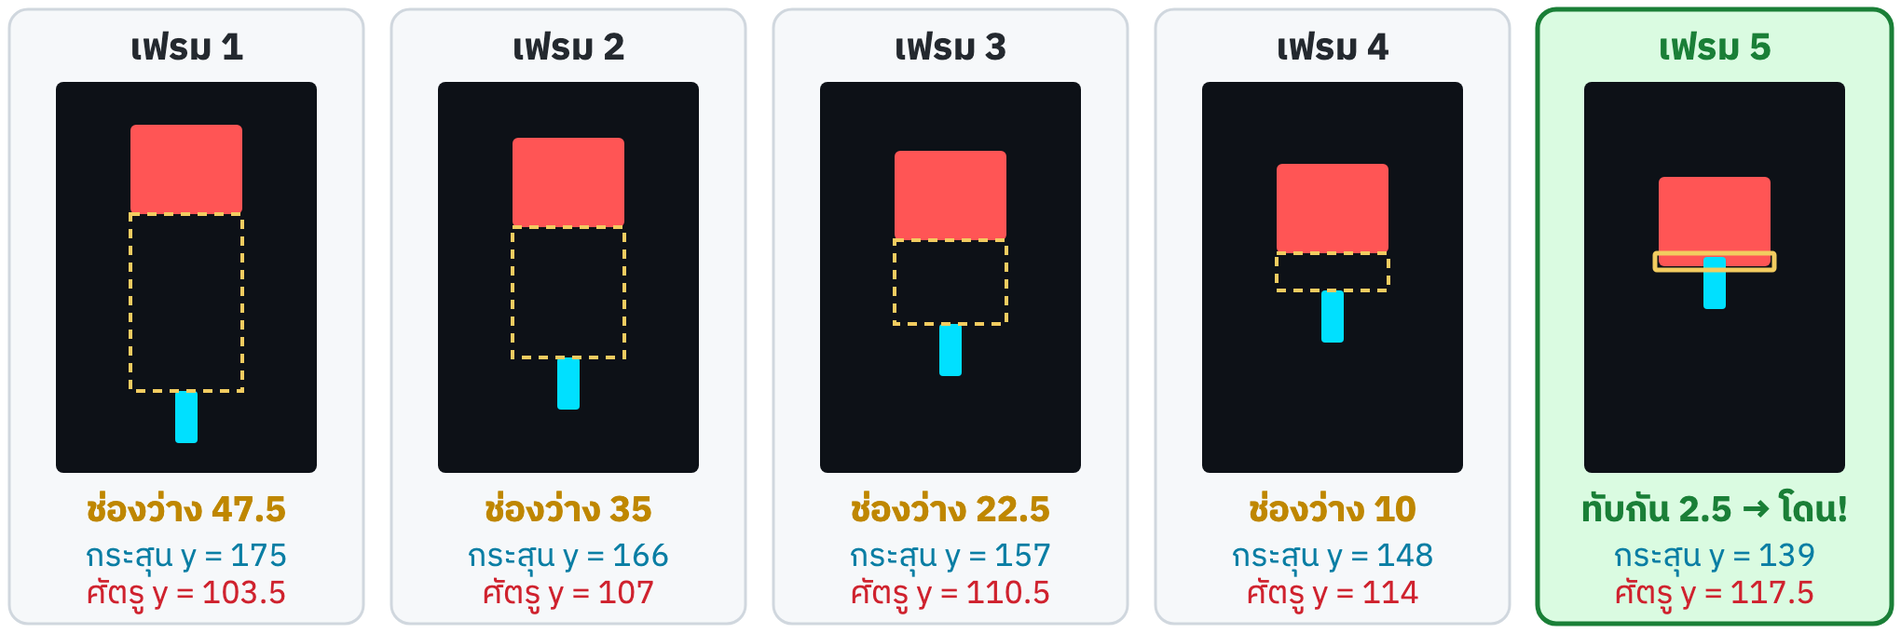
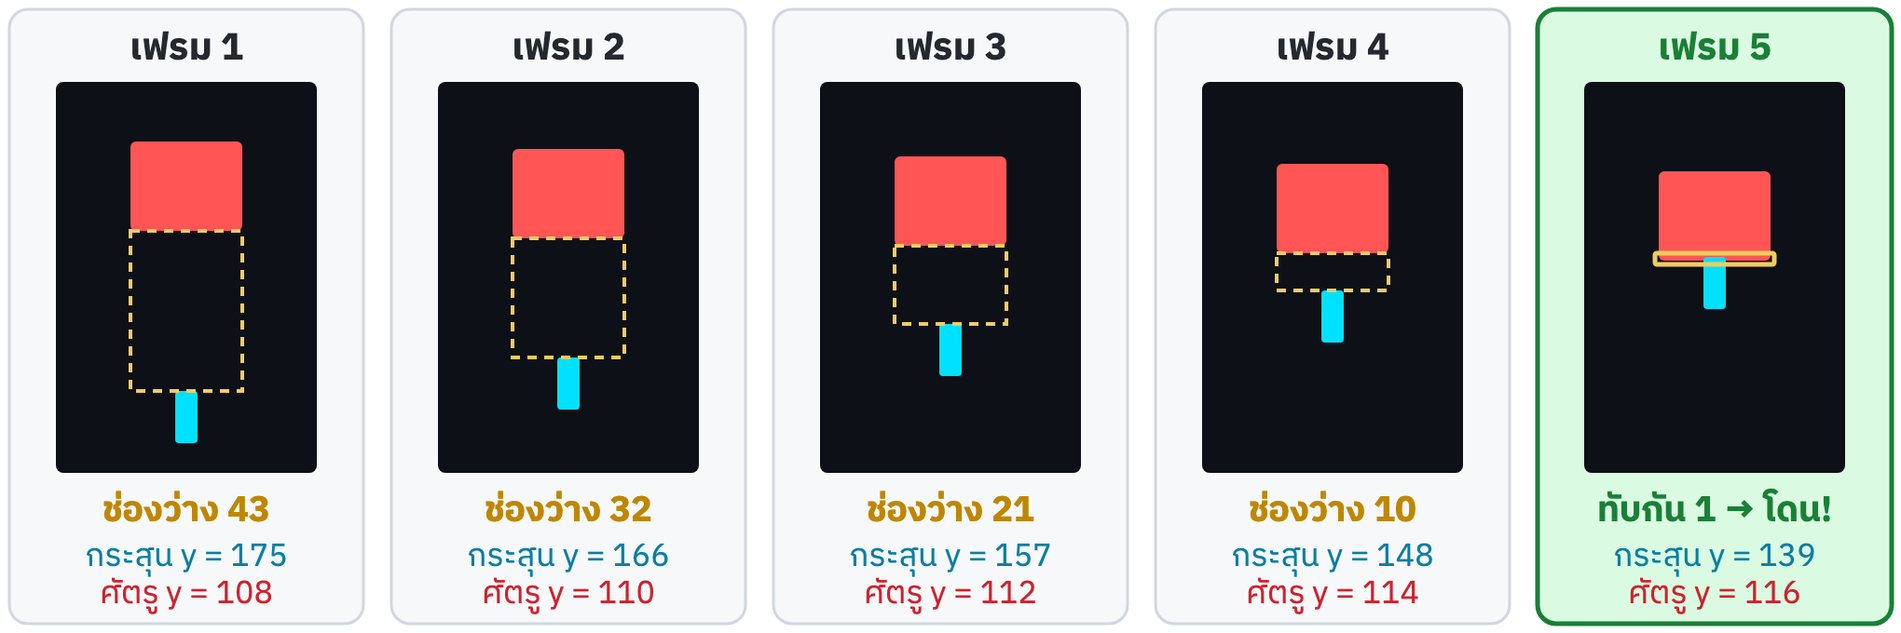
site: publish slides + practise_codes (2026-09-30)

diff --git a/developer-i/session-12.html b/developer-i/session-12.html
@@ -96,24 +96,24 @@
 </tbody>
 </table>
 <blockquote>
-<p>Catch ย้ายของไปที่ y = 0 (ขอบบนจอ) · step4 ย้ายไปเหนือจอ y −200 … −20 แล้วค่อย ๆ โผล่ลงมา · แบบ &quot;คืนแล้วรอให้ยืม&quot; ของศัตรูอยู่ใน step5 ท้ายคาบ</p>
+<p>Catch ย้ายของไปที่ y = 0 (ขอบบนจอ) · step4 ย้ายไปเหนือจอ y −500 … −100 แล้วค่อย ๆ โผล่ลงมา · แบบ &quot;คืนแล้วรอให้ยืม&quot; ของศัตรูอยู่ใน step5 ท้ายคาบ</p>
 </blockquote>
 </section>
 </foreignObject></svg><svg data-marpit-svg="" viewBox="0 0 1280 720"><foreignObject width="1280" height="720"><section id="5" data-paginate="true" data-theme="default" lang="en-US" data-marpit-pagination="5" style="--paginate:true;--theme:default;" data-marpit-pagination-total="36">
 <h1 id="%E0%B8%97%E0%B8%B2%E0%B8%A2%E0%B8%81%E0%B9%88%E0%B8%AD%E0%B8%99--%E0%B8%96%E0%B9%89%E0%B8%B2%E0%B8%A8%E0%B8%B1%E0%B8%95%E0%B8%A3%E0%B8%B9%E0%B9%84%E0%B8%A1%E0%B9%88%E0%B8%AA%E0%B8%B8%E0%B9%88%E0%B8%A1%E0%B9%80%E0%B8%A5%E0%B8%A2-%E0%B8%88%E0%B8%B0%E0%B9%80%E0%B8%81%E0%B8%B4%E0%B8%94%E0%B8%AD%E0%B8%B0%E0%B9%84%E0%B8%A3%E0%B8%82%E0%B8%B6%E0%B9%89%E0%B8%99">ทายก่อน — ถ้าศัตรูไม่สุ่มเลย จะเกิดอะไรขึ้น?</h1>
 <p><img src="img/s12_spawn_row.png" alt="" style="width:760px;" /></p>
 <ul>
-<li>สมมติทุกตัวเริ่มที่ <code>y = -50</code> และตกเฟรมละ 3 px เท่ากันหมด</li>
+<li>สมมติทุกตัวเริ่มที่ <code>y = -60</code> และตกเฟรมละ 2 px เท่ากันหมด</li>
 <li><strong>ทาย:</strong> ถึงพื้นเฟรมที่เท่าไร? แล้วชีวิต 3 ดวงจะเป็นอย่างไร? (จดคำตอบไว้ก่อน)</li>
 </ul>
 <blockquote>
-<p>ใบ้: ต้องเดินจาก −50 ไปให้เลย 398 (พื้น) ทีละ 3 px</p>
+<p>ใบ้: ต้องเดินจาก −60 ไปให้เลย 398 (พื้น) ทีละ 2 px</p>
 </blockquote>
 </section>
 </foreignObject></svg><svg data-marpit-svg="" viewBox="0 0 1280 720"><foreignObject width="1280" height="720"><section id="6" data-paginate="true" data-theme="default" lang="en-US" data-marpit-pagination="6" style="--paginate:true;--theme:default;" data-marpit-pagination-total="36">
 <h1 id="%E0%B9%80%E0%B8%89%E0%B8%A5%E0%B8%A2--%E0%B8%96%E0%B8%B6%E0%B8%87%E0%B8%9E%E0%B8%B7%E0%B9%89%E0%B8%99%E0%B8%9E%E0%B8%A3%E0%B9%89%E0%B8%AD%E0%B8%A1%E0%B8%81%E0%B8%B1%E0%B8%99-%E0%B9%80%E0%B8%AA%E0%B8%B5%E0%B8%A2-3-%E0%B8%8A%E0%B8%B5%E0%B8%A7%E0%B8%B4%E0%B8%95%E0%B9%83%E0%B8%99%E0%B9%80%E0%B8%9F%E0%B8%A3%E0%B8%A1%E0%B9%80%E0%B8%94%E0%B8%B5%E0%B8%A2%E0%B8%A7">เฉลย — ถึงพื้นพร้อมกัน เสีย 3 ชีวิตในเฟรมเดียว</h1>
 <ul>
-<li>ระยะทาง 398 − (−50) = 448 px · เฟรมละ 3 → 448 ÷ 3 = 149.3 → <strong>ทุกตัวถึงพื้นเฟรมที่ 150 พร้อมกัน</strong></li>
+<li>ระยะทาง 398 − (−60) = 458 px · เฟรมละ 2 → 458 ÷ 2 = 229 (เฟรม 229 อยู่ที่ 398 พอดี ยังไม่เลย) → <strong>ทุกตัวหลุดพื้นเฟรมที่ 230 พร้อมกัน</strong></li>
 <li>เฟรมนั้นลูปเจอตัวที่ 1 → lives 2 · ตัวที่ 2 → lives 1 · ตัวที่ 3 → lives 0 → <strong>GAME OVER ทันที</strong></li>
 </ul>
 <p>step4 จึงสุ่ม 2 อย่าง: <strong>ความสูงเริ่ม</strong> และ <strong>ความเร็ว</strong> (ภาพวาดตามสเกลจริงแกน y)</p>
@@ -135,28 +135,28 @@
 <tbody>
 <tr>
 <td>A</td>
-<td>−40</td>
-<td>4.5</td>
-<td>98</td>
-<td>3.3</td>
+<td>−60</td>
+<td>2.5</td>
+<td>184</td>
+<td>6.1</td>
 </tr>
 <tr>
 <td>B</td>
-<td>−200</td>
-<td>3.5</td>
-<td>171</td>
-<td>5.7</td>
+<td>−300</td>
+<td>2.0</td>
+<td>350</td>
+<td>11.7</td>
 </tr>
 <tr>
 <td>C</td>
-<td>−400</td>
-<td>2.5</td>
-<td>320</td>
-<td>10.7</td>
+<td>−700</td>
+<td>1.5</td>
+<td>733</td>
+<td>24.4</td>
 </tr>
 </tbody>
 </table>
-<p><strong>คำพูด:</strong> ตำแหน่งใหม่ = ตำแหน่งเดิม + ความเร็ว ทุกเฟรม (เหมือน Catch) → เฟรมจนถึงพื้น ≈ (398 − y เริ่ม) ÷ v · ตัว B: 598 ÷ 3.5 = 170.9 → <strong>171</strong></p>
+<p><strong>คำพูด:</strong> ตำแหน่งใหม่ = ตำแหน่งเดิม + ความเร็ว ทุกเฟรม (เหมือน Catch) → เฟรมจนถึงพื้น ≈ (398 − y เริ่ม) ÷ v · ตัว B: 698 ÷ 2 = 349 → เฟรม 349 อยู่ที่ 398 พอดี ยังไม่เลย → <strong>350</strong></p>
 <p><span style="font-size:.8em">*ถ้าบอร์ดวิ่ง 30 เฟรม/วินาที</span></p>
 </div>
 </div>
@@ -197,7 +197,7 @@
 </foreignObject></svg><svg data-marpit-svg="" viewBox="0 0 1280 720"><foreignObject width="1280" height="720"><section id="8" data-paginate="true" data-theme="default" lang="en-US" data-marpit-pagination="8" style="--paginate:true;--theme:default;" data-marpit-pagination-total="36">
 <h1 id="%E0%B8%95%E0%B8%B2%E0%B8%A1%E0%B8%95%E0%B8%B1%E0%B8%A7%E0%B9%80%E0%B8%A5%E0%B8%82%E0%B8%88%E0%B8%A3%E0%B8%B4%E0%B8%87%E0%B8%97%E0%B8%B5%E0%B8%A5%E0%B8%B0%E0%B9%80%E0%B8%9F%E0%B8%A3%E0%B8%A1--%E0%B8%8A%E0%B9%88%E0%B8%AD%E0%B8%87%E0%B8%A7%E0%B9%88%E0%B8%B2%E0%B8%87%E0%B8%AB%E0%B8%94%E0%B8%88%E0%B8%99%E0%B8%AB%E0%B8%B2%E0%B8%A2">ตามตัวเลขจริงทีละเฟรม — ช่องว่างหดจนหาย</h1>
 <p><img src="img/s12_aabb_trace.png" alt="" style="width:760px;" /></p>
-<p>กระสุนขึ้นเฟรมละ <strong>9</strong> ศัตรูลงเฟรมละ <strong>3.5</strong> → ช่องว่างหดเฟรมละ 9 + 3.5 = <strong>12.5 px</strong>: 47.5 → 35 → 22.5 → 10 → ทับกัน</p>
+<p>กระสุนขึ้นเฟรมละ <strong>9</strong> ศัตรูลงเฟรมละ <strong>2</strong> → ช่องว่างหดเฟรมละ 9 + 2 = <strong>11 px</strong>: 43 → 32 → 21 → 10 → ทับกัน</p>
 <table>
 <thead>
 <tr>
@@ -223,13 +223,13 @@
 <tr>
 <td>3</td>
 <td>ขอบบนกระสุน อยู่เหนือขอบล่างศัตรู?</td>
-<td>139 &lt; 117.5 + 24 = 141.5</td>
+<td>139 &lt; 116 + 24 = 140</td>
 <td>✓</td>
 </tr>
 <tr>
 <td>4</td>
 <td>ขอบล่างกระสุน เลยขอบบนศัตรู?</td>
-<td>139 + 14 = 153 &gt; 117.5</td>
+<td>139 + 14 = 153 &gt; 116</td>
 <td>✓</td>
 </tr>
 </tbody>
@@ -276,7 +276,7 @@ c100.7 8.3 195.3 44 280 108 55.3 42 101.7 93 139 153l9 14c2.7-4 5.7-8.7 9-14
 <p><span style="font-size:.85em;color:#57606a">ตัวอย่างทั่วไป (ไม่ใช่โค้ดแล็บ) ลองพิมพ์ทีละบรรทัดใน REPL ได้</span></p>
 <pre is="marp-pre" data-auto-scaling="downscale-only"><code class="language-python"><span class="hljs-keyword">import</span> random
 random.choice([<span class="hljs-string">&quot;RED&quot;</span>, <span class="hljs-string">&quot;ORANGE&quot;</span>, <span class="hljs-string">&quot;PINK&quot;</span>])   <span class="hljs-comment"># สุ่มหยิบ 1 ชิ้นจาก list เช่น &quot;PINK&quot;</span>
-random.uniform(<span class="hljs-number">2.5</span>, <span class="hljs-number">4.5</span>)                    <span class="hljs-comment"># สุ่มเลขทศนิยมในช่วง เช่น 3.48</span>
+random.uniform(<span class="hljs-number">1.5</span>, <span class="hljs-number">2.5</span>)                    <span class="hljs-comment"># สุ่มเลขทศนิยมในช่วง เช่น 1.98</span>
 <span class="hljs-keyword">for</span> index, color <span class="hljs-keyword">in</span> <span class="hljs-built_in">enumerate</span>([<span class="hljs-string">&quot;RED&quot;</span>, <span class="hljs-string">&quot;ORANGE&quot;</span>]):
     <span class="hljs-built_in">print</span>(index, color)                     <span class="hljs-comment"># ได้ 0 RED แล้ว 1 ORANGE</span>
 <span class="hljs-keyword">for</span> n <span class="hljs-keyword">in</span> [<span class="hljs-number">1</span>, <span class="hljs-number">2</span>, <span class="hljs-number">3</span>, <span class="hljs-number">4</span>]:
@@ -296,7 +296,7 @@ random.uniform(<span class="hljs-number">2.5</span>, <span class="hljs-number">4
 <tbody>
 <tr>
 <td><code>random.choice(list)</code> · <code>random.uniform(a, b)</code></td>
-<td>สีสุ่ม <code>random.choice(ENEMY_COLORS)</code> · ความเร็วสุ่ม 2.5 … 4.5</td>
+<td>สีสุ่ม <code>random.choice(ENEMY_COLORS)</code> · ความเร็วสุ่ม 1.5 … 2.5</td>
 </tr>
 <tr>
 <td><code>enumerate(list)</code></td>
@@ -380,20 +380,20 @@ random.uniform(<span class="hljs-number">2.5</span>, <span class="hljs-number">4
 </tbody>
 </table>
 <blockquote>
-<p><code>on_frame</code> แก้ค่า <code>score</code> กับ <code>lives</code> จึงต้องมี <code>global ship_x, ship_speed, score, lives, fire_cooldown</code> — ให้มาแล้วที่ <code>:52</code> อย่าลบ</p>
+<p><code>on_frame</code> แก้ <code>score</code> กับ <code>lives</code> จึงต้องมีบรรทัด <code>global</code> — ให้มาแล้วที่ <code>:52</code> อย่าลบ</p>
 </blockquote>
 </section>
 </foreignObject></svg><svg data-marpit-svg="" viewBox="0 0 1280 720"><foreignObject width="1280" height="720"><section id="13" data-paginate="true" data-theme="default" lang="en-US" data-marpit-pagination="13" style="--paginate:true;--theme:default;" data-marpit-pagination-total="36">
 <h1 id="game-over--return-false-%E0%B8%9A%E0%B8%AD%E0%B8%81-gamerun-%E0%B9%83%E0%B8%AB%E0%B9%89%E0%B8%AB%E0%B8%A2%E0%B8%B8%E0%B8%94">GAME OVER — <code>return False</code> บอก <code>game.run()</code> ให้หยุด</h1>
-<p><img src="img/s12_states.png" alt="" style="width:700px;" /></p>
+<p><img src="img/s12_states.png" alt="" style="width:600px;" /></p>
 <pre is="marp-pre" data-auto-scaling="downscale-only"><code class="language-python">            <span class="hljs-keyword">if</span> lives &lt;= <span class="hljs-number">0</span>:                   <span class="hljs-comment"># ค ชีวิตหมด = จบเกม</span>
-                game.sfx(<span class="hljs-string">&quot;gameover&quot;</span>)
+                game.sfx(<span class="hljs-string">&quot;gameover&quot;</span>)         <span class="hljs-comment"># เสียงจบ (ยิง = &quot;fire&quot;, โดน = &quot;hit&quot;)</span>
                 game.Text(<span class="hljs-string">&quot;GAME OVER&quot;</span>, <span class="hljs-number">320</span>, <span class="hljs-number">180</span>, game.RED)
                 <span class="hljs-keyword">return</span> <span class="hljs-literal">False</span>
 </code></pre>
 <ul>
 <li>ภาพซ้าย = FSM ไฟจราจรคาบ 2 (วงกลม = สถานะ ลูกศร = เหตุที่ทำให้เปลี่ยน) · ภาพขวา = เกมเราก็เป็น FSM: กำลังเล่น กับ พัก สลับกันด้วยปุ่ม Start · ชีวิตหมด → GAME OVER</li>
-<li>เหมือนตอนจบ Catch (<code>s04_catch.py:59-63</code>) แต่จบเพราะ <strong>ชีวิตหมด</strong> · engine เห็น <code>False</code> แล้วเลิกเรียก <code>on_frame</code> (<code>bentogame.py:996-997</code>) · สร้าง <code>game.Text</code> ตรงนี้ได้เพราะเกิด <strong>ครั้งเดียว</strong> · เสียง: <code>&quot;fire&quot;</code> ยิง · <code>&quot;hit&quot;</code> โดน · <code>&quot;gameover&quot;</code> จบ</li>
+<li>เหมือนจบ Catch (<code>s04_catch.py:59-63</code>) แต่จบเพราะ <strong>ชีวิตหมด</strong> · engine เห็น <code>False</code> แล้วเลิกเรียก <code>on_frame</code> (<code>bentogame.py:996-997</code>) · สร้าง <code>game.Text</code> ได้เพราะเกิด <strong>ครั้งเดียว</strong></li>
 </ul>
 </section>
 </foreignObject></svg><svg data-marpit-svg="" viewBox="0 0 1280 720"><foreignObject width="1280" height="720"><section id="14" data-paginate="true" data-theme="default" lang="en-US" data-marpit-pagination="14" style="--paginate:true;--theme:default;" data-marpit-pagination-total="36">
@@ -440,18 +440,18 @@ random.uniform(<span class="hljs-number">2.5</span>, <span class="hljs-number">4
 <td>x — ศัตรูกว้าง 30 จึงไม่ล้นขอบขวา 792</td>
 </tr>
 <tr>
-<td><code>-random.randint(40, 400)</code></td>
-<td>−400 … −40</td>
-<td>y ตอนสร้าง — เหนือจอ สูงต่ำไม่เท่ากัน</td>
+<td><code>-random.randint(60, 700)</code></td>
+<td>−700 … −60</td>
+<td>y ตอนสร้าง — เหนือจอ สูงต่ำต่างกันมาก ทยอยลงมา</td>
 </tr>
 <tr>
-<td><code>-random.randint(20, 200)</code></td>
-<td>−200 … −20</td>
-<td>y ตอนวนกลับ — ใกล้จอกว่า โผล่ไวกว่า</td>
+<td><code>-random.randint(100, 500)</code></td>
+<td>−500 … −100</td>
+<td>y ตอนวนกลับ — หายไปเหนือจอสักพักก่อนโผล่อีกรอบ</td>
 </tr>
 <tr>
-<td><code>random.uniform(2.5, 4.5)</code></td>
-<td>2.5 … 4.5 (ทศนิยม)</td>
+<td><code>random.uniform(1.5, 2.5)</code></td>
+<td>1.5 … 2.5 (ทศนิยม)</td>
 <td>ความเร็วตก px/เฟรม เก็บใน <code>enemy_speed</code></td>
 </tr>
 <tr>
@@ -461,6 +461,9 @@ random.uniform(<span class="hljs-number">2.5</span>, <span class="hljs-number">4
 </tr>
 </tbody>
 </table>
+<blockquote>
+<p>ค่าชุดนี้ตั้งให้ช้าพอที่มือใหม่เล่นได้รอบละราว 30–100 วินาที · อยากให้ยากขึ้นลองเพิ่มความเร็วเอง · ความยากแบบมีโหมดอยู่ใน step5</p>
+</blockquote>
 </section>
 </foreignObject></svg><svg data-marpit-svg="" viewBox="0 0 1280 720"><foreignObject width="1280" height="720"><section id="15" data-paginate="true" data-theme="default" lang="en-US" data-marpit-pagination="15" style="--paginate:true;--theme:default;" data-marpit-pagination-total="36">
 <h1 id="%E0%B8%8A%E0%B9%88%E0%B8%AD%E0%B8%87-34-%E0%B8%95%E0%B8%B2%E0%B8%A1%E0%B8%9C%E0%B8%B1%E0%B8%87--%E0%B8%82%E0%B8%B1%E0%B9%89%E0%B8%99-%E0%B8%81-%E0%B8%96%E0%B8%B6%E0%B8%87-%E0%B8%88">ช่อง (3+4) ตามผัง — ขั้น ก ถึง จ</h1>
@@ -475,7 +478,7 @@ random.uniform(<span class="hljs-number">2.5</span>, <span class="hljs-number">4
 <div style="display:flex;gap:22px;align-items:flex-start">
 <div style="flex:0 0 440px">
 <p><img src="img/s12_round.gif" alt="" style="width:440px;" /></p>
-<p><span style="font-size:.7em;color:#57606a">คลิปจำลองตรรกะ <code>shooter_step4.py</code> หนึ่งรอบ (ไม่ใช่ภาพจากบอร์ด) · ผู้เล่นอัตโนมัติเลี้ยวยานไปใต้ศัตรูตัวที่ต่ำที่สุด และกด A ค้าง</span></p>
+<p><span style="font-size:.7em;color:#57606a">คลิปจำลองตรรกะ <code>shooter_step4.py</code> (ไม่ใช่ภาพจากบอร์ด) · ผู้เล่นอัตโนมัติเลี้ยวยานไปใต้ศัตรูตัวที่ต่ำที่สุด และกด A ค้าง · เลือกรอบที่จบเร็ว (~21 วินาที) มาให้เห็นครบ ปกติยาวกว่านี้มาก</span></p>
 </div>
 <div style="flex:1">
 <div style="line-height:1.9">
@@ -522,7 +525,7 @@ random.uniform(<span class="hljs-number">2.5</span>, <span class="hljs-number">4
 </tr>
 <tr>
 <td>ลืม <code>break</code></td>
-<td>แทบไม่เห็นบนจอ (นาน ๆ ครั้งตัวเดียวได้ 2 แต้ม) แต่ผิดหลัก</td>
+<td>บนจอแทบไม่มีทางเห็น แต่ผิดหลัก: ศัตรูที่วนขึ้นบนแล้วยังถูกเช็คต่อ</td>
 <td>ใส่ไว้เสมอ = &quot;ตัวนี้จบแล้ว&quot;</td>
 </tr>
 <tr>
@@ -533,7 +536,7 @@ random.uniform(<span class="hljs-number">2.5</span>, <span class="hljs-number">4
 </tbody>
 </table>
 <blockquote>
-<p>ได้คะแนนตอนศัตรูเพิ่งโผล่ขอบบน (ยังเห็นไม่เต็มตัว) เป็นเรื่องปกติ: นัดที่ยังใช้อยู่แถว y −20 … 0 โดนมันได้ · แถว &quot;ลืม break&quot; จากการจำลองตรรกะบนคอมพิวเตอร์: 2 ใน 300 รอบ</p>
+<p>ได้คะแนนตอนศัตรูเพิ่งโผล่ขอบบน (ยังเห็นไม่เต็มตัว) เป็นเรื่องปกติ: นัดที่ยังใช้อยู่แถว y −20 … 0 โดนมันได้ · แถว &quot;ลืม break&quot;: จำลองตรรกะบนคอมพิวเตอร์ 100 รอบ ไม่เห็นแต้มซ้ำเลย</p>
 </blockquote>
 </section>
 </foreignObject></svg><svg data-marpit-svg="" viewBox="0 0 1280 720"><foreignObject width="1280" height="720"><section id="18" data-paginate="true" data-theme="default" lang="en-US" data-marpit-pagination="18" style="--paginate:true;--theme:default;" data-marpit-pagination-total="36">
@@ -707,19 +710,19 @@ random.uniform(<span class="hljs-number">2.5</span>, <span class="hljs-number">4
 </section>
 </foreignObject></svg><svg data-marpit-svg="" viewBox="0 0 1280 720"><foreignObject width="1280" height="720"><section id="24" data-paginate="true" data-theme="default" lang="en-US" data-marpit-pagination="24" style="--paginate:true;--theme:default;" data-marpit-pagination-total="36">
 <h1 id="%E0%B9%80%E0%B8%89%E0%B8%A5%E0%B8%A2-step4--%E0%B8%8A%E0%B9%88%E0%B8%AD%E0%B8%87-1--2">เฉลย step4 · ช่อง (1) + (2)</h1>
-<pre is="marp-pre" data-auto-scaling="downscale-only"><code class="language-python">enemies = [game.Box(random.randint(<span class="hljs-number">0</span>, game.WIDTH - <span class="hljs-number">30</span>), -random.randint(<span class="hljs-number">40</span>, <span class="hljs-number">400</span>),
+<pre is="marp-pre" data-auto-scaling="downscale-only"><code class="language-python">enemies = [game.Box(random.randint(<span class="hljs-number">0</span>, game.WIDTH - <span class="hljs-number">30</span>), -random.randint(<span class="hljs-number">60</span>, <span class="hljs-number">700</span>),
                     <span class="hljs-number">30</span>, <span class="hljs-number">24</span>, random.choice(ENEMY_COLORS)) <span class="hljs-keyword">for</span> _ <span class="hljs-keyword">in</span> <span class="hljs-built_in">range</span>(MAX_ENEMIES)]
-enemy_speed = [random.uniform(<span class="hljs-number">2.5</span>, <span class="hljs-number">4.5</span>) <span class="hljs-keyword">for</span> _ <span class="hljs-keyword">in</span> <span class="hljs-built_in">range</span>(MAX_ENEMIES)]
+enemy_speed = [random.uniform(<span class="hljs-number">1.5</span>, <span class="hljs-number">2.5</span>) <span class="hljs-keyword">for</span> _ <span class="hljs-keyword">in</span> <span class="hljs-built_in">range</span>(MAX_ENEMIES)]   <span class="hljs-comment"># ช้าพอให้ยิงทัน</span>
 
 <span class="hljs-keyword">def</span> <span class="hljs-title function_">respawn_enemy</span>(<span class="hljs-params">index</span>):
-    enemies[index].move_to(random.randint(<span class="hljs-number">0</span>, game.WIDTH - <span class="hljs-number">30</span>), -random.randint(<span class="hljs-number">20</span>, <span class="hljs-number">200</span>))
+    enemies[index].move_to(random.randint(<span class="hljs-number">0</span>, game.WIDTH - <span class="hljs-number">30</span>), -random.randint(<span class="hljs-number">100</span>, <span class="hljs-number">500</span>))
     enemies[index].set_color(random.choice(ENEMY_COLORS))
 </code></pre>
 <p><code>solution_codes/shooter_step4.py:30-32</code> และ <code>:41-43</code></p>
 <ul>
 <li>list comprehension สร้าง 6 กล่องในบรรทัดเดียว — ทำ <strong>ครั้งเดียว</strong> นอก <code>on_frame</code></li>
 <li><code>enemies[i]</code> กับ <code>enemy_speed[i]</code> คือ list คู่ขนาน: ตำแหน่ง i ของทั้งสอง list คือศัตรูตัวเดียวกัน</li>
-<li>วนกลับขึ้นบนใช้ y −200 … −20 (ใกล้จอกว่าตอนเริ่ม −400 … −40) ศัตรูที่วนกลับมาจึงโผล่ไวกว่ารอบแรก</li>
+<li>ตอนเริ่มใช้ y −700 … −60 (กระจายกว้าง 6 ตัวจึงทยอยลงมา) · ตอนวนกลับใช้ −500 … −100: ตัวที่เพิ่งจบรอบหายไปเหนือจอสักพัก — ที่ 2 px/เฟรม ใช้ 50–250 เฟรม (≈ 2–8 วินาที) กว่าจะถึงขอบบน ผู้เล่นได้พักหายใจ</li>
 <li>ความเร็วไม่ได้สุ่มใหม่ตอนวนกลับ — แต่ละตัวเร็วเท่าเดิมทั้งเกม (<code>respawn_enemy</code> ไม่แตะ <code>enemy_speed</code>)</li>
 </ul>
 </section>
@@ -838,9 +841,9 @@ enemy_speed = [random.uniform(<span class="hljs-number">2.5</span>, <span class=
 </foreignObject></svg><svg data-marpit-svg="" viewBox="0 0 1280 720"><foreignObject width="1280" height="720"><section id="30" data-paginate="true" data-theme="default" lang="en-US" data-marpit-pagination="30" style="--paginate:true;--theme:default;" data-marpit-pagination-total="36">
 <h1 id="%E0%B8%A5%E0%B8%B6%E0%B8%81%E0%B8%AD%E0%B8%B5%E0%B8%81%E0%B8%99%E0%B8%B4%E0%B8%94--%E0%B8%97%E0%B8%B3%E0%B9%84%E0%B8%A1%E0%B8%81%E0%B8%A3%E0%B8%B0%E0%B8%AA%E0%B8%B8%E0%B8%99%E0%B9%84%E0%B8%A1%E0%B9%88-%E0%B8%97%E0%B8%B0%E0%B8%A5%E0%B8%B8-%E0%B8%A8%E0%B8%B1%E0%B8%95%E0%B8%A3%E0%B8%B9">ลึกอีกนิด · ทำไมกระสุนไม่ &quot;ทะลุ&quot; ศัตรู</h1>
 <ul>
-<li>ต่อเฟรม กระสุนกับศัตรูเข้าหากันได้มากสุด 9 + 4.5 = <strong>13.5 px</strong> (ศัตรูเร็วสุด 4.5)</li>
+<li>ต่อเฟรม กระสุนกับศัตรูเข้าหากันได้มากสุด 9 + 2.5 = <strong>11.5 px</strong> (ศัตรูเร็วสุด 2.5)</li>
 <li>ช่วงที่แกน y ทับกันยาว = สูงศัตรู + สูงกระสุน = 24 + 14 = <strong>38 px</strong></li>
-<li>ก้าวละ 13.5 กระโดดข้ามช่วง 38 ไม่พ้น → ต้องมีอย่างน้อย 1 เฟรมที่ทับกัน <code>game.hit</code> เห็นแน่ (ถ้าแกน x ตรงกัน)</li>
+<li>ก้าวละ 11.5 กระโดดข้ามช่วง 38 ไม่พ้น → ต้องมีอย่างน้อย 1 เฟรมที่ทับกัน <code>game.hit</code> เห็นแน่ (ถ้าแกน x ตรงกัน)</li>
 <li>ถ้าวันหนึ่งทำกระสุนเร็ว 40 px/เฟรม จะเริ่มทะลุได้ — เกมจริงแก้ด้วยการเช็คทีละก้าวย่อย หรือยืดกล่องชนตามทางที่วิ่ง</li>
 </ul>
 </section>
@@ -849,7 +852,7 @@ enemy_speed = [random.uniform(<span class="hljs-number">2.5</span>, <span class=
 <ul>
 <li>นับของบนจอ step4: กระสุน 6 + ศัตรู 6 + ยาน 1 + ป้าย HUD 1 + ป้ายปุ่มของ <code>game.run()</code> 1 (<code>bentogame.py:957</code>) = <strong>15 ชิ้น</strong> + ป้าย GAME OVER ตอนจบ = <strong>16</strong></li>
 <li>engine บอกงบไว้ 32 ชิ้นรวมทุกอย่าง (<code>bentogame.py:827</code>) → เหลือที่ว่าง 32 − 16 = <strong>16 ชิ้น</strong></li>
-<li>ถ้า <code>game.Box(...)</code> ใหม่ทุกครั้งที่ศัตรูเกิดใหม่: 1 รอบเกิดใหม่ = แต้มที่ได้ + ชีวิตที่เสีย (3) · ผู้เล่นที่ได้ <strong>14 แต้ม</strong> ต้องสร้างกล่องใหม่ 14 + 3 = 17 ใบ → <strong>เกินงบแล้ว</strong> · ยิ่งเล่นเก่ง ยิ่งพังเร็ว (ผู้เล่นที่ไม่ยิงเลยจบเกมหลังเกิดใหม่แค่ 3 ครั้ง จึงไม่เห็นปัญหา)</li>
+<li>ถ้า <code>game.Box(...)</code> ใหม่ทุกครั้งที่ศัตรูเกิดใหม่: 1 รอบเกิดใหม่ = แต้มที่ได้ + ชีวิตที่เสีย (3) · ผู้เล่นที่ได้ <strong>14 แต้ม</strong> ต้องสร้างกล่องใหม่ 14 + 3 = 17 ใบ → <strong>เกินงบแล้ว</strong> · ผู้เล่นอัตโนมัติแบบคนทั่วไปในการจำลองได้ราว 70–80 แต้มต่อรอบ → เกินงบตั้งแต่ต้นรอบ (ผู้เล่นที่ไม่ยิงเลยจบเกมหลังเกิดใหม่แค่ 3 ครั้ง จึงไม่เห็นปัญหา)</li>
 <li>บนไมโครคอนโทรลเลอร์ยังมีเหตุผลอีก: สร้าง/ทิ้งของบ่อยทำให้ตัวเก็บขยะ (GC) หยุดเกมไปเก็บกวาด และหน่วยความจำแตกเป็นชิ้น ๆ — คู่มือ MicroPython แนะนำให้สร้างของที่ใช้นานไว้ตั้งแต่ต้น · มาตรฐานงานวิกฤต (JPL Power of Ten ข้อ 3, MISRA C 21.3) ห้ามจองหน่วยความจำใหม่หลังระบบเริ่มทำงาน</li>
 </ul>
 </section>

diff --git a/extra/index.html b/extra/index.html
@@ -73,5 +73,5 @@
 
   <div class="foot">BENTO &amp; TESAIoT · Extra WiFi+MQTT IoT Pack · ต่อ WiFi ผ่านเมนูบนจอก่อน แล้วเปิดไฟล์ใน BENTO IDE → Program to Device</div>
 </div><a href="../index.html" id="esfd-home" style="position:fixed;top:14px;right:16px;z-index:60;font:700 13px/1 -apple-system,BlinkMacSystemFont,'IBM Plex Sans Thai',sans-serif;background:rgba(7,11,20,.9);color:#22d3ee;border:1px solid #2a3a5c;border-radius:999px;padding:8px 14px;text-decoration:none;box-shadow:0 2px 10px rgba(0,0,0,.4)">&#8592; หน้าแรก</a>
-<div id="bento-updated" style="position:fixed;bottom:14px;left:16px;z-index:50;font:600 12px/1 -apple-system,BlinkMacSystemFont,sans-serif;background:rgba(7,11,20,.82);color:#9fb0c8;border:1px solid #2a3a5c;border-radius:999px;padding:6px 13px">อัปเดตล่าสุด 2026-09-30 00:04</div>
+<div id="bento-updated" style="position:fixed;bottom:14px;left:16px;z-index:50;font:600 12px/1 -apple-system,BlinkMacSystemFont,sans-serif;background:rgba(7,11,20,.82);color:#9fb0c8;border:1px solid #2a3a5c;border-radius:999px;padding:6px 13px">อัปเดตล่าสุด 2026-09-30 09:51</div>
 </body></html>

diff --git a/developer-i/roadmap.html b/developer-i/roadmap.html
@@ -307,6 +307,6 @@
 })();
 </script>
 <a href="../index.html" id="esfd-home" style="position:fixed;top:14px;right:16px;z-index:60;font:700 13px/1 -apple-system,BlinkMacSystemFont,'IBM Plex Sans Thai',sans-serif;background:rgba(7,11,20,.9);color:#22d3ee;border:1px solid #2a3a5c;border-radius:999px;padding:8px 14px;text-decoration:none;box-shadow:0 2px 10px rgba(0,0,0,.4)">&#8592; หน้าแรก</a>
-<div id="bento-updated" style="position:fixed;bottom:14px;left:16px;z-index:50;font:600 12px/1 -apple-system,BlinkMacSystemFont,sans-serif;background:rgba(7,11,20,.82);color:#9fb0c8;border:1px solid #2a3a5c;border-radius:999px;padding:6px 13px">อัปเดตล่าสุด 2026-09-30 00:04</div>
+<div id="bento-updated" style="position:fixed;bottom:14px;left:16px;z-index:50;font:600 12px/1 -apple-system,BlinkMacSystemFont,sans-serif;background:rgba(7,11,20,.82);color:#9fb0c8;border:1px solid #2a3a5c;border-radius:999px;padding:6px 13px">อัปเดตล่าสุด 2026-09-30 09:51</div>
 </body>
 </html>

diff --git a/developer-ii/roadmap.html b/developer-ii/roadmap.html
@@ -297,6 +297,6 @@
 })();
 </script>
 <a href="../index.html" id="esfd-home" style="position:fixed;top:14px;right:16px;z-index:60;font:700 13px/1 -apple-system,BlinkMacSystemFont,'IBM Plex Sans Thai',sans-serif;background:rgba(7,11,20,.9);color:#22d3ee;border:1px solid #2a3a5c;border-radius:999px;padding:8px 14px;text-decoration:none;box-shadow:0 2px 10px rgba(0,0,0,.4)">&#8592; หน้าแรก</a>
-<div id="bento-updated" style="position:fixed;bottom:14px;left:16px;z-index:50;font:600 12px/1 -apple-system,BlinkMacSystemFont,sans-serif;background:rgba(7,11,20,.82);color:#9fb0c8;border:1px solid #2a3a5c;border-radius:999px;padding:6px 13px">อัปเดตล่าสุด 2026-09-30 00:04</div>
+<div id="bento-updated" style="position:fixed;bottom:14px;left:16px;z-index:50;font:600 12px/1 -apple-system,BlinkMacSystemFont,sans-serif;background:rgba(7,11,20,.82);color:#9fb0c8;border:1px solid #2a3a5c;border-radius:999px;padding:6px 13px">อัปเดตล่าสุด 2026-09-30 09:51</div>
 </body>
 </html>

diff --git a/developer-i/practise_codes/shooter_step4.py b/developer-i/practise_codes/shooter_step4.py
@@ -29,7 +29,7 @@ for bullet in bullets:
 #   1) ตำแหน่ง x สุ่มให้อยู่ในจอ (ใช้ random.randint, ระวังอย่าให้เลยขอบขวา game.WIDTH)
 #   2) ตำแหน่ง y ให้เป็นค่าติดลบ (เริ่มเหนือจอ) เพื่อให้ศัตรูทยอยร่วงลงมาไม่พร้อมกัน
 #   3) สีของแต่ละตัวสุ่มด้วย random.choice(ENEMY_COLORS)
-#   4) แล้วสร้าง enemy_speed เป็น list ความเร็วสุ่มต่อตัวด้วย random.uniform(...)
+#   4) แล้วสร้าง enemy_speed เป็น list ความเร็วสุ่มต่อตัวด้วย random.uniform(...) — ช้าพอให้ยิงทัน
 #   (ลองปรับช่วงค่าเอง / เปิด solution_codes/shooter_step4.py ถ้าติดจริง ๆ)
 enemies = [game.Box(0, -50, 30, 24, game.RED) for _ in range(MAX_ENEMIES)]   # <- placeholder: แก้ให้สุ่มตำแหน่ง/สี
 enemy_speed = [0.0 for _ in range(MAX_ENEMIES)]                              # <- placeholder: แก้ให้สุ่มความเร็ว
@@ -43,7 +43,7 @@ def find_free_bullet():
 # ----- เติมส่วนนี้เอง (งานของคุณ) (2): ศัตรูวนกลับขึ้นบน (เริ่มรอบใหม่เหนือจอ) -----
 # TODO: เติมตัวฟังก์ชันให้ศัตรูตัวที่ index "วนกลับขึ้นบน" (ย้ายกล่องเดิม ไม่สร้างใหม่)
 #   1) ใช้ enemies[index].move_to(...) (Box.move_to — bentogame.py:234) ย้ายไป x สุ่มในจอ,
-#      y ติดลบ (เหนือจอ) ด้วย random เหมือนตอนสร้างศัตรูในข้อ (1)
+#      y ติดลบ (เหนือจอ) ด้วย random.randint (ช่วงค่าดูตาราง "ชิ้นส่วนสุ่ม" ในสไลด์คาบ 12)
 #   2) เปลี่ยนสีใหม่ด้วย enemies[index].set_color(random.choice(ENEMY_COLORS))  (set_color — bentogame.py:259)
 def respawn_enemy(index):
     pass   # <- ลบ pass ออกเมื่อเริ่มเขียน

diff --git a/developer-i/solution_codes/shooter_step4.py b/developer-i/solution_codes/shooter_step4.py
@@ -27,9 +27,9 @@ for bullet in bullets:
     bullet.hide()
 
 # ----- เติมส่วนนี้เอง (1): ศัตรู 6 ตัว สร้างครั้งเดียว เริ่มเหนือจอ ความเร็วสุ่ม -----
-enemies = [game.Box(random.randint(0, game.WIDTH - 30), -random.randint(40, 400),
+enemies = [game.Box(random.randint(0, game.WIDTH - 30), -random.randint(60, 700),
                     30, 24, random.choice(ENEMY_COLORS)) for _ in range(MAX_ENEMIES)]
-enemy_speed = [random.uniform(2.5, 4.5) for _ in range(MAX_ENEMIES)]
+enemy_speed = [random.uniform(1.5, 2.5) for _ in range(MAX_ENEMIES)]   # ช้าพอให้ยิงทัน
 
 def find_free_bullet():
     for bullet in bullets:
@@ -39,7 +39,7 @@ def find_free_bullet():
 
 # ----- เติมส่วนนี้เอง (2): ศัตรูวนกลับขึ้นบน (x สุ่ม, y เหนือจอ, สีสุ่ม) -----
 def respawn_enemy(index):
-    enemies[index].move_to(random.randint(0, game.WIDTH - 30), -random.randint(20, 200))
+    enemies[index].move_to(random.randint(0, game.WIDTH - 30), -random.randint(100, 500))
     enemies[index].set_color(random.choice(ENEMY_COLORS))
 
 def on_frame():
